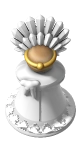
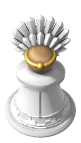
Mexica: Pilli Mexica without a knot, dry brush 0.3, a cleaner hem band in three versions
Claude-Session: https://claude.ai/code/session_01P5r4sdmPFjyHFbMXuL3JW2

Changed region(s): [[0.0741, 0.5874, 0.9383, 0.951], [0.2469, 0.5315, 0.5679, 0.7273]]

diff --git a/games/mexica-ui/src/lib/board/lookOutlines.ts b/games/mexica-ui/src/lib/board/lookOutlines.ts
@@ -1,6 +1,6 @@
 // Written by scripts/render-looks.mjs: each figure's outline, by the name of its look.
 export const LOOK_OUTLINES: Record<string, string> = {
-    pilli: 'M-0.09 -32.46L-0.54 -32.24L-1.59 -31.29L-1.48 -30.96L-1.48 -30.07L-1.37 -29.96L-1.37 -29.18L-1.26 -29.07L-1.31 -28.68L-1.59 -28.74L-1.7 -29.07L-1.81 -30.29L-2.09 -31.24L-3.54 -31.9L-3.98 -31.79L-4.48 -31.29L-4.92 -30.4L-4.92 -29.96L-3.87 -27.46L-4.04 -27.52L-5.15 -29.74L-5.42 -30.02L-6.2 -30.24L-7.09 -30.24L-7.48 -29.85L-7.7 -28.18L-6.09 -26.02L-7.15 -27.18L-7.98 -27.9L-8.09 -27.79L-8.98 -27.79L-9.31 -27.68L-9.59 -27.4L-9.59 -26.74L-9.04 -25.52L-9.04 -25.29L-7.81 -24.29L-8.09 -24.35L-8.76 -24.79L-9.09 -24.79L-10.04 -24.29L-10.15 -24.07L-10.04 -23.74L-8.2 -22.02L-7.26 -21.63L-7.54 -21.57L-7.87 -21.68L-8.09 -21.46L-8.54 -21.35L-8.81 -21.07L-8.7 -20.85L-7.65 -20.24L-6.76 -20.02L-6.09 -19.46L-5.76 -19.35L-5.76 -19.24L-5.98 -19.24L-6.37 -18.96L-5.98 -18.68L-5.54 -18.68L-5.37 -18.52L-5.37 -18.07L-5.15 -17.63L-6.31 -16.9L-7.48 -15.74L-8.04 -14.85L-8.26 -14.18L-8.26 -13.74L-8.37 -13.63L-8.26 -12.63L-8.15 -12.52L-8.15 -11.63L-7.7 -10.63L-6.81 -9.63L-6.81 -9.4L-6.59 -9.18L-6.59 -8.85L-6.87 -8.46L-7.87 -7.9L-8.87 -7.13L-10.15 -5.74L-10.04 -5.52L-10.2 -5.57L-10.37 -5.4L-10.37 -5.18L-10.59 -4.96L-10.48 -4.85L-10.65 -4.9L-10.81 -4.74L-11.37 -3.4L-11.37 -3.07L-11.59 -2.63L-11.7 -1.74L-11.81 -1.63L-11.81 0.37L-11.7 0.48L-11.7 0.93L-11.37 2.04L-10.48 3.71L-8.54 5.76L-7.42 6.54L-5.42 7.54L-3.2 8.21L-2.09 8.32L-1.98 8.43L0.69 8.54L0.8 8.43L2.69 8.32L2.8 8.21L3.24 8.21L5.13 7.65L7.24 6.65L8.8 5.54L10.41 3.82L11.19 2.48L11.74 0.82L11.85 -1.29L11.74 -1.4L11.74 -1.96L11.63 -2.07L11.3 -3.63L10.74 -4.85L10.52 -4.85L10.63 -4.96L10.41 -5.4L10.24 -5.57L10.08 -5.52L10.19 -5.63L10.08 -5.85L8.46 -7.46L7.69 -8.02L7.46 -8.02L6.63 -8.74L6.52 -9.4L7.63 -10.52L8.19 -11.74L8.3 -14.07L7.85 -15.18L7.3 -15.96L6.02 -17.13L5.19 -17.52L5.41 -18.52L5.58 -18.68L6.02 -18.68L6.3 -18.85L6.24 -19.13L5.74 -19.29L5.91 -19.46L6.24 -19.57L6.8 -20.02L7.69 -20.24L8.35 -20.57L8.74 -20.96L8.74 -21.18L8.58 -21.35L8.35 -21.35L7.91 -21.68L7.58 -21.57L7.3 -21.63L8.02 -21.9L8.46 -22.24L9.91 -23.57L10.08 -23.85L10.08 -24.29L9.91 -24.46L9.46 -24.57L9.02 -24.9L7.91 -24.24L7.63 -24.18L8.96 -25.18L9.52 -26.52L9.63 -27.29L9.52 -27.52L9.24 -27.68L8.13 -27.79L8.02 -27.9L6.35 -26.35L6.3 -26.4L6.74 -26.85L7.74 -28.29L7.63 -28.4L7.52 -29.74L7.13 -30.24L6.24 -30.24L6.13 -30.13L5.35 -30.02L4.19 -27.74L3.91 -27.46L3.96 -27.85L4.3 -28.4L4.96 -30.29L4.41 -31.4L3.8 -31.9L3.13 -31.79L1.96 -31.07L1.85 -29.96L1.63 -29.29L1.63 -28.74L1.35 -28.68L1.3 -29.4L1.41 -29.52L1.41 -30.29L1.52 -30.4L1.52 -31.29L0.69 -32.13L0.13 -32.46ZM5.85 -25.85L5.96 -25.85ZM-7.7 -24.18L-7.59 -24.18ZM-7.15 -21.52L-7.04 -21.52ZM6.74 -8.29L6.85 -8.29ZM-7.37 -6.96L-7.26 -6.96ZM7.41 -6.63L7.52 -6.63ZM7.52 -6.4L7.63 -6.4ZM7.63 -6.18L7.74 -6.18ZM7.74 -5.96L7.85 -5.96Z',
+    pilli: 'M-0.09 -32.46L-0.54 -32.24L-1.59 -31.29L-1.48 -30.96L-1.48 -30.07L-1.37 -29.96L-1.37 -29.18L-1.26 -29.07L-1.31 -28.68L-1.59 -28.74L-1.7 -29.07L-1.81 -30.29L-2.09 -31.24L-3.54 -31.9L-3.98 -31.79L-4.48 -31.29L-4.92 -30.4L-4.92 -29.96L-3.87 -27.46L-4.04 -27.52L-5.15 -29.74L-5.42 -30.02L-6.2 -30.24L-7.09 -30.24L-7.48 -29.85L-7.7 -28.18L-6.09 -26.02L-7.15 -27.18L-7.98 -27.9L-8.09 -27.79L-8.98 -27.79L-9.31 -27.68L-9.59 -27.4L-9.59 -26.74L-9.04 -25.52L-9.04 -25.29L-7.81 -24.29L-8.09 -24.35L-8.76 -24.79L-9.09 -24.79L-10.04 -24.29L-10.15 -24.07L-10.04 -23.74L-8.2 -22.02L-7.26 -21.63L-7.54 -21.57L-7.87 -21.68L-8.09 -21.46L-8.54 -21.35L-8.81 -21.07L-8.7 -20.85L-7.65 -20.24L-6.76 -20.02L-6.09 -19.46L-5.76 -19.35L-5.76 -19.24L-5.98 -19.24L-6.37 -18.96L-5.98 -18.68L-5.54 -18.68L-5.37 -18.52L-5.37 -18.07L-5.15 -17.63L-6.31 -16.9L-7.48 -15.74L-8.04 -14.85L-8.26 -14.18L-8.26 -13.74L-8.37 -13.63L-8.26 -12.63L-8.15 -12.52L-8.15 -11.63L-7.7 -10.63L-7.04 -9.85L-6.48 -9.4L-6.48 -9.18L-6.81 -8.18L-7.2 -7.79L-7.87 -7.46L-8.87 -6.68L-9.92 -5.63L-10.81 -4.4L-11.26 -3.52L-11.7 -2.18L-11.7 -1.74L-11.81 -1.63L-11.81 0.37L-11.7 0.48L-11.7 0.93L-11.37 2.04L-10.48 3.71L-8.54 5.76L-7.42 6.54L-5.42 7.54L-3.2 8.21L-2.09 8.32L-1.98 8.43L0.69 8.54L0.8 8.43L2.69 8.32L2.8 8.21L3.24 8.21L5.13 7.65L7.24 6.65L8.8 5.54L10.41 3.82L11.19 2.48L11.74 0.82L11.85 -1.29L11.74 -1.4L11.74 -1.96L11.63 -2.07L11.52 -2.85L10.52 -4.85L9.13 -6.46L8.02 -7.35L7.02 -7.9L6.74 -8.29L6.52 -9.4L7.63 -10.52L7.96 -11.07L8.19 -11.74L8.3 -14.07L7.85 -15.18L7.3 -15.96L6.02 -17.13L5.19 -17.52L5.41 -18.52L5.58 -18.68L6.02 -18.68L6.3 -18.85L6.24 -19.13L5.74 -19.29L5.91 -19.46L6.24 -19.57L6.8 -20.02L7.69 -20.24L8.35 -20.57L8.74 -20.96L8.74 -21.18L8.58 -21.35L8.35 -21.35L7.91 -21.68L7.58 -21.57L7.3 -21.63L8.02 -21.9L8.46 -22.24L9.91 -23.57L10.08 -23.85L10.08 -24.29L9.91 -24.46L9.46 -24.57L9.02 -24.9L7.91 -24.24L7.63 -24.18L8.96 -25.18L9.52 -26.52L9.63 -27.29L9.52 -27.52L9.24 -27.68L8.13 -27.79L8.02 -27.9L6.35 -26.35L6.3 -26.4L6.74 -26.85L7.74 -28.29L7.63 -28.4L7.52 -29.74L7.13 -30.24L6.24 -30.24L6.13 -30.13L5.35 -30.02L4.19 -27.74L3.91 -27.46L3.96 -27.85L4.3 -28.4L4.96 -30.29L4.41 -31.4L3.8 -31.9L3.13 -31.79L1.96 -31.07L1.85 -29.96L1.63 -29.29L1.63 -28.74L1.35 -28.68L1.3 -29.4L1.41 -29.52L1.41 -30.29L1.52 -30.4L1.52 -31.29L0.69 -32.13L0.13 -32.46ZM5.85 -25.85L5.96 -25.85ZM-7.7 -24.18L-7.59 -24.18ZM-7.15 -21.52L-7.04 -21.52ZM-7.37 -6.96L-7.26 -6.96Z',
     'pilli-flat':
         'M-1.42 -11.79L-1.54 -11.68L-2.09 -11.68L-2.2 -11.57L-3.09 -11.46L-3.54 -11.24L-3.87 -11.24L-5.42 -10.57L-7.31 -9.35L-8.31 -8.46L-9.37 -7.29L-10.26 -5.96L-11.04 -4.41L-11.48 -3.07L-11.59 -2.18L-11.7 -2.07L-11.7 -1.41L-11.81 -1.29L-11.81 1.26L-11.7 1.37L-11.7 2.04L-11.59 2.15L-11.48 3.04L-10.48 5.59L-9.04 7.71L-7.2 9.43L-5.42 10.54L-4.54 10.98L-3.2 11.43L-2.42 11.54L-2.31 11.65L-1.76 11.65L-1.65 11.76L-0.65 11.76L-0.54 11.87L1.69 11.76L1.8 11.65L2.35 11.65L4.24 11.09L6.24 10.09L8.13 8.65L9.63 6.93L10.85 4.82L11.52 2.93L11.52 2.48L11.74 1.82L11.74 0.93L11.85 0.82L11.74 -1.85L11.63 -1.96L11.63 -2.41L11.08 -4.29L10.08 -6.29L9.19 -7.52L7.02 -9.57L6.02 -10.24L4.69 -10.91L3.13 -11.46L2.24 -11.57L2.13 -11.68L1.58 -11.68L1.46 -11.79ZM-8.37 -5.96L-8.26 -5.96ZM-5.15 -3.96L-5.04 -3.96Z'
 }

diff --git a/games/mexica-ui/src/lib/board/pilliLight.ts b/games/mexica-ui/src/lib/board/pilliLight.ts
@@ -101,7 +101,7 @@ function shineOf(p: Vec, normal: Vec, scene: Scene, tone: number): Sample {
     const up = 0.5 + 0.5 * clamp(normal[2])
     // Strokes drawn up and down the figure.
     const stroke = 0.35 + 0.65 * smoothstep(0.32, 0.68, brush(p[0] * 1.1 + p[1] * 1.1, p[2] * 0.3))
-    const detail = tone > 1.05 ? DRY_BRUSH.lighter : 0
+    const detail = DRY_BRUSH.lighter * clamp((tone - 1) / 0.4)
     return { color: [1, 1, 1], alpha: clamp(DRY_BRUSH.strength * edge * up * stroke + detail) }
 }
 
@@ -206,7 +206,18 @@ const PLINTH = { height: 1.8, radius: 9.1, round: 0.7 }
 const CAPE: Vec = [6.4, 4.6, 2.9]
 const CAPE_AT = 15.6
 const HEAD = { radius: 3.7, at: [0, 0.3, 21.2] satisfies Vec }
-const HEM = { foot: 1.4, top: 3.8, period: 3.2 }
+// The band round the hem, clear of the ring at the foot: a raised line along each edge and
+// between them a stepped fret, repeating a whole number of times round the robe.
+const HEM = {
+    foot: 2.3,
+    top: 5.1,
+    repeats: 8,
+    steps: 2,
+    line: 0.32,
+    soft: 0.14,
+    studs: 18,
+    stud: 0.55
+}
 
 // The pawn's radius at a height: flaring out towards the foot.
 function pawnRadius(z: number): number {
@@ -319,15 +330,15 @@ function body(style: PilliStyle, p: Vec): number {
     if (style.arms) shape = blend(shape, arms(style, p), 0.7)
     if (style.trim) {
         shape = Math.min(shape, cord(p))
-        shape -= relief(p)
+        shape -= relief(style, p)
+        if (style.hem === 'studs') shape = Math.min(shape, studs(style, p))
     }
     const tied = knotOf(style)
     if (tied) shape = blend(shape, knot(tied, p), 0.25)
     return shape
 }
 
-const ROBE_AT_HEM = 8
-const RELIEF = { fret: 0.32, opening: 0.28, cord: 0.5 }
+const RELIEF = { fret: 0.26, line: 0.22, opening: 0.28, cord: 0.5 }
 const CAPE_EDGE = CAPE_AT - CAPE[2] * 0.55
 
 // A cord along the cape's lower edge.
@@ -336,9 +347,12 @@ function cord(p: Vec): number {
     return length2(cape, p[2] - CAPE_EDGE) - RELIEF.cord
 }
 
-// The fret stands out from the hem and the cloak's opening is cut into its front.
-function relief(p: Vec): number {
-    if (p[2] > HEM.foot && p[2] < HEM.top) return fret(p) ? RELIEF.fret : 0
+// The fret and the hem's edge lines stand out from the robe, and the cloak's opening is cut
+// into its front.
+function relief(style: PilliStyle, p: Vec): number {
+    if (p[2] > HEM.foot - HEM.line && p[2] < HEM.top + HEM.line) {
+        return Math.max(RELIEF.line * hemLine(p), RELIEF.fret * hemPattern(style, p))
+    }
     if (p[2] > HEM.top && p[2] < CAPE_AT - 2 && openingAt(p)) return -RELIEF.opening
     return 0
 }
@@ -347,13 +361,41 @@ function openingAt(p: Vec): boolean {
     return p[1] > 0 && Math.abs(Math.atan2(p[0], p[1])) < 0.05
 }
 
-// The stepped fret: steps rising and falling round the hem, a lighter paint.
-function fret(p: Vec): boolean {
-    const around = Math.atan2(p[0], p[1]) * ROBE_AT_HEM
-    const s = (((around / HEM.period) % 1) + 1) % 1
-    const h = (p[2] - HEM.foot) / (HEM.top - HEM.foot)
-    const step = Math.floor((s < 0.5 ? s : 1 - s) * 8) / 4
-    return h > 0.12 && h < 0.88 && h - 0.12 < step * 0.76 + 0.1
+// How fully a point is on one of the hem's edge lines, softened at their edges.
+function hemLine(p: Vec): number {
+    const off = Math.min(Math.abs(p[2] - HEM.foot), Math.abs(p[2] - HEM.top))
+    return 1 - smoothstep(HEM.line / 2 - HEM.soft, HEM.line / 2 + HEM.soft, off)
+}
+
+function hemPattern(style: PilliStyle, p: Vec): number {
+    return style.hem === 'fret' ? fret(p) : 0
+}
+
+// Round studs in a ring between the hem's lines, standing on the robe.
+function studs(style: PilliStyle, p: Vec): number {
+    const z = (HEM.foot + HEM.top) / 2
+    const turn = Math.atan2(p[0], p[1]) / (2 * Math.PI)
+    const nearest = (Math.round(turn * HEM.studs) / HEM.studs) * 2 * Math.PI
+    const r = robeRadius(style, z) - 0.1
+    const centre: Vec = [Math.sin(nearest) * r, Math.cos(nearest) * r, z]
+    return sphere(p, centre, HEM.stud)
+}
+
+// How fully a point is on the stepped fret: steps rising to a peak and falling again between
+// the edge lines, each step's edges softened.
+function fret(p: Vec): number {
+    const turn = (Math.atan2(p[0], p[1]) / (2 * Math.PI)) * HEM.repeats
+    const s = turn - Math.floor(turn)
+    const climb = (s < 0.5 ? s : 1 - s) * 2 * HEM.steps
+    const whole = Math.floor(climb)
+    const level = (whole + smoothstep(1 - 0.18, 1, climb - whole)) / HEM.steps
+    const inner = HEM.line
+    const height = HEM.top - HEM.foot - 2 * inner
+    const top = HEM.foot + inner + height * (0.2 + 0.8 * level)
+    const above = p[2] - (HEM.foot + inner)
+    return (
+        smoothstep(-HEM.soft, HEM.soft, above) * (1 - smoothstep(-HEM.soft, HEM.soft, p[2] - top))
+    )
 }
 
 function bodyFinish(style: PilliStyle, p: Vec): Finish {
@@ -361,7 +403,10 @@ function bodyFinish(style: PilliStyle, p: Vec): Finish {
     const tied = knotOf(style)
     if (tied && knot(tied, p) < 0.15) return paint(1.08)
     if (style.trim) {
-        if (p[2] > HEM.foot && p[2] < HEM.top) return paint(fret(p) ? 1.35 : 0.78)
+        if (p[2] > HEM.foot - HEM.line && p[2] < HEM.top + HEM.line) {
+            const studded = style.hem === 'studs' && studs(style, p) < 0.15 ? 1 : 0
+            return paint(0.8 + 0.45 * Math.max(hemPattern(style, p), hemLine(p), studded))
+        }
         if (p[2] > HEM.top && p[2] < CAPE_AT - 2 && openingAt(p)) return paint(0.7)
         if (cord(p) < 0.15) return paint(1.2)
     }

diff --git a/games/mexica-ui/src/lib/board/pilliShape.ts b/games/mexica-ui/src/lib/board/pilliShape.ts
@@ -6,7 +6,7 @@ import { type Box, PILLI_SIZE } from './view.js'
 // viewer, z up, in board units at full size. A cloaked noble with a bare wooden face and a fan
 // of feathers behind the head.
 //   robe: a bell, or a pawn's concave flare on a ring at the foot.
-//   trim: a stepped fret round the hem, the cloak's opening down the front and a cord along the
+//   trim: raised lines round the hem with a stepped fret or studs between them (hem), the cloak's opening down the front and a cord along the
 //     cape's edge.
 //   knot: the cloak's corners tied over the right shoulder or at the chest, as the Mexica
 //     fastened a cloak.
@@ -17,6 +17,7 @@ import { type Box, PILLI_SIZE } from './view.js'
 export type PilliStyle = {
     robe: 'bell' | 'pawn'
     trim: boolean
+    hem: 'fret' | 'studs' | 'lines'
     knot: 'none' | 'shoulder' | 'chest'
     arms: boolean
     fan: 'plain' | 'feathers' | 'tiered'
@@ -27,7 +28,8 @@ export type PilliStyle = {
 export const PILLI_STYLE: PilliStyle = {
     robe: 'pawn',
     trim: true,
-    knot: 'shoulder',
+    hem: 'fret',
+    knot: 'none',
     arms: false,
     fan: 'tiered',
     headband: true,
@@ -35,7 +37,7 @@ export const PILLI_STYLE: PilliStyle = {
 }
 
 // How strongly the shine layer lies over the darkest paint.
-export const PILLI_SHINE = 0.7
+export const PILLI_SHINE = 0.3
 
 export const PILLI_PIXELS = 3
 

diff --git a/games/mexica-ui/src/routes/looks/+page.svelte b/games/mexica-ui/src/routes/looks/+page.svelte
@@ -16,6 +16,7 @@
     import { ownerMark } from '$lib/board/templeMarks.js'
     import { renderPilli } from '$lib/board/pilliLight.js'
     import {
+        PILLI_SHINE,
         PILLI_STYLE,
         type PilliStyle,
         pilliBounds,
@@ -40,11 +41,11 @@
     let figures: Record<string, Figure> | undefined = $state()
     // Dry-brushed over the darker paints in a range of strengths.
     const FIGURE_STYLES: [string, PilliStyle][] = [
-        ['no knot', { ...PILLI_STYLE, knot: 'none' }],
-        ['shoulder knot', { ...PILLI_STYLE, knot: 'shoulder' }],
-        ['chest knot', { ...PILLI_STYLE, knot: 'chest' }]
+        ['fret', { ...PILLI_STYLE, hem: 'fret' }],
+        ['studs', { ...PILLI_STYLE, hem: 'studs' }],
+        ['lines', { ...PILLI_STYLE, hem: 'lines' }]
     ]
-    const SHINES = [0, 0.3]
+    const SHINES = [PILLI_SHINE]
     const FIGURE_ROWS = FIGURE_STYLES.flatMap(([name]) => SHINES.map((shine) => ({ name, shine })))
     const FIGURE_COLORS: readonly Color[] = [
         Color.Green,
